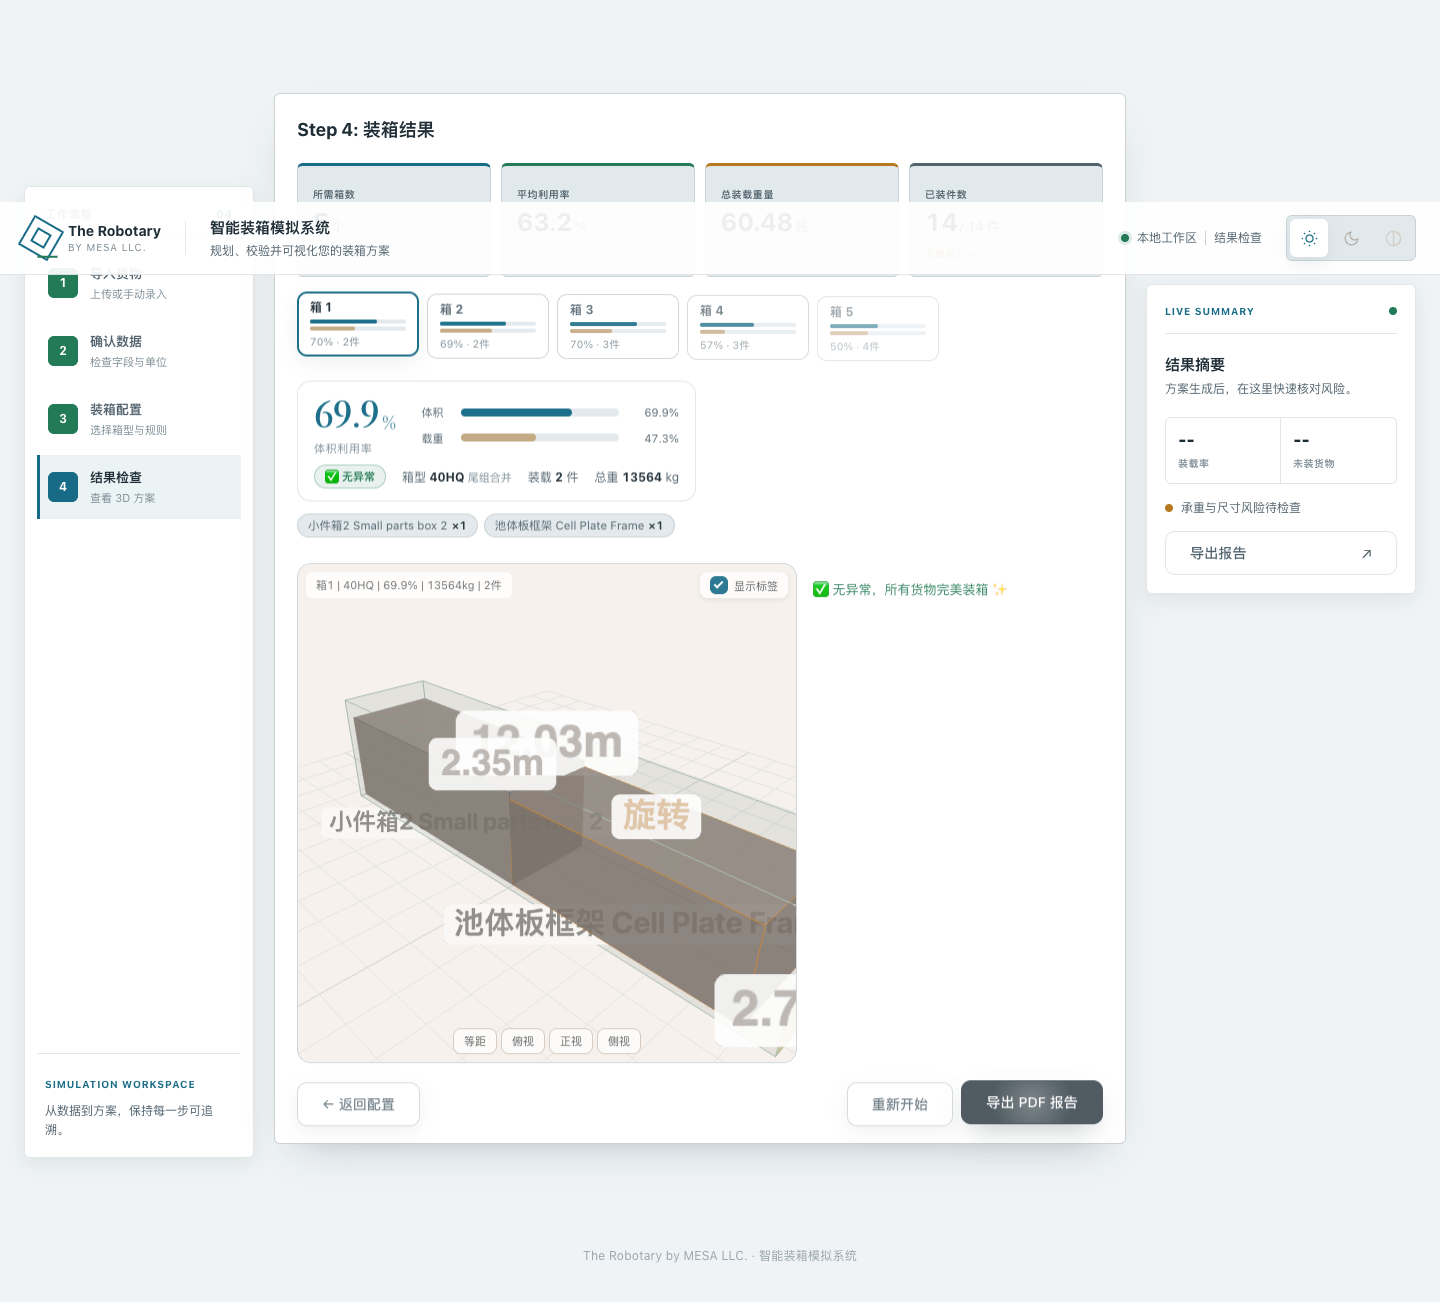
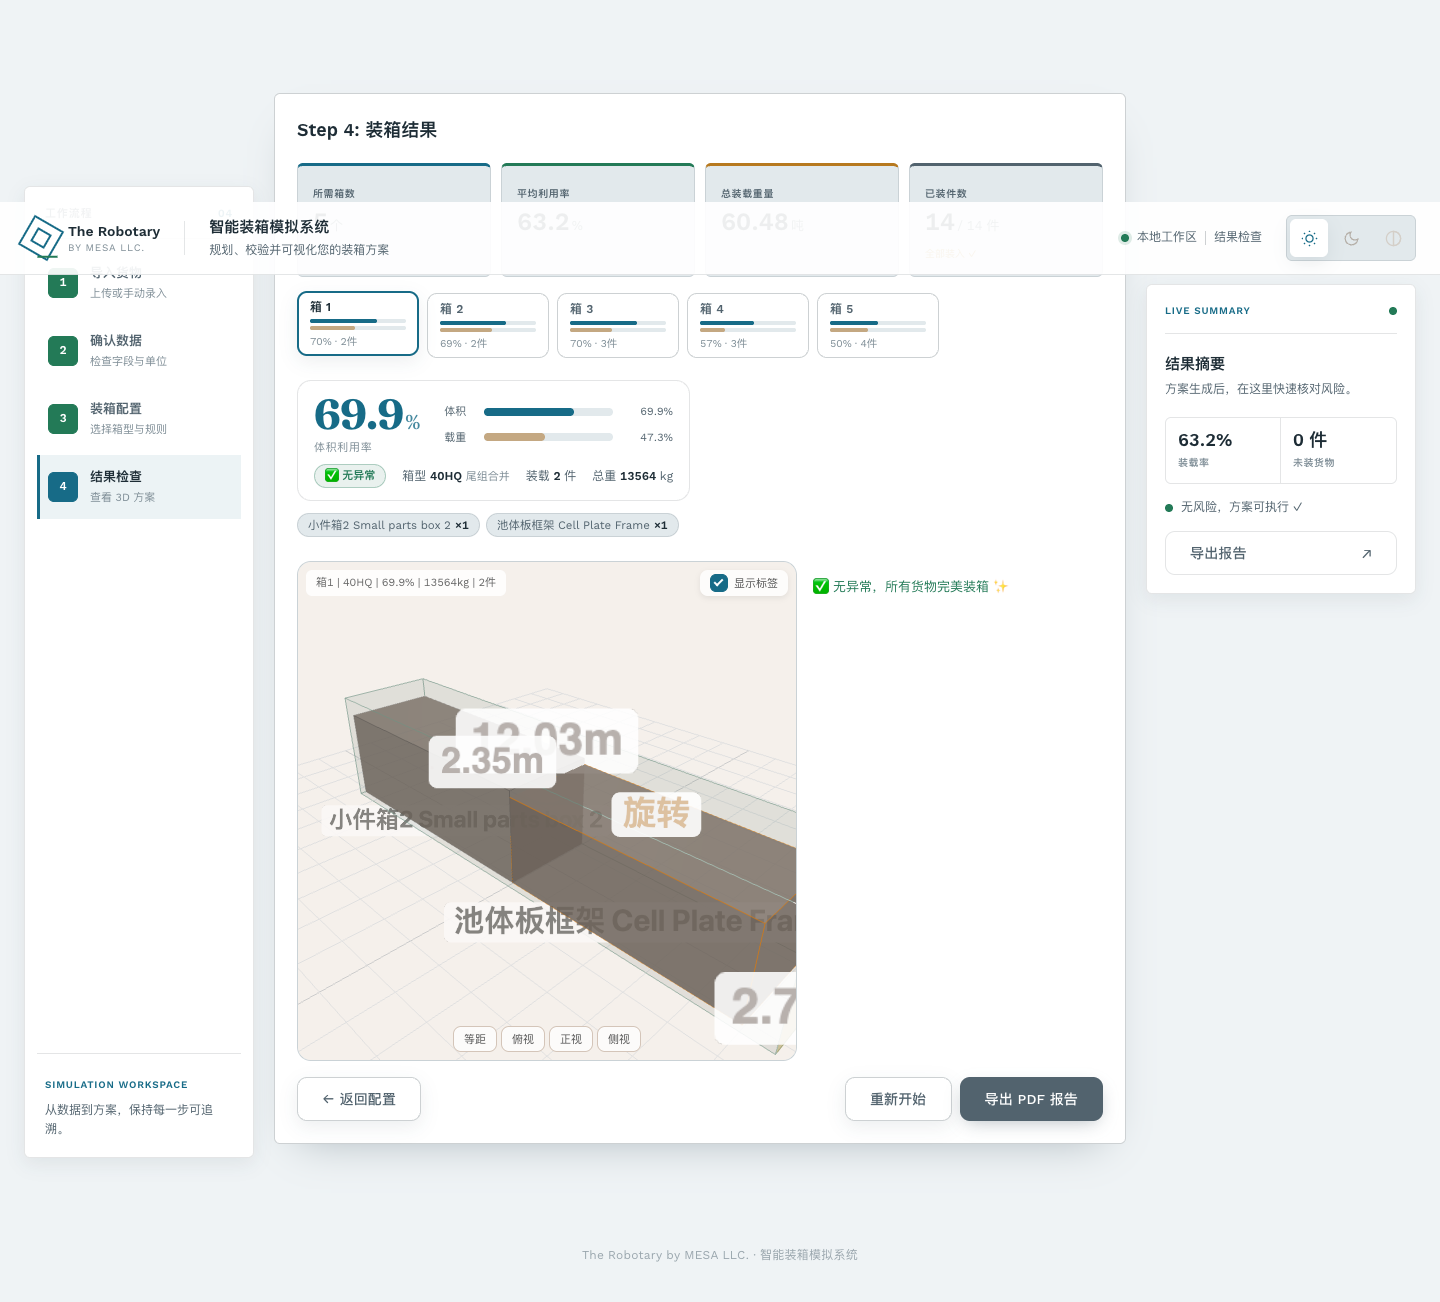
fix(C1.1): LIVE SUMMARY 面板联动 + 验收截图复拍
- app.js renderResultSummary 末尾同步 #context-utilization/#context-unloaded + 风险线三态
  （此前两元素全项目无人赋值，永远显示 '--'，属半成品面板）
- styles.css 新增 .risk-line__dot--ok
- test-regressions-c1 加 C1-CTX 静态契约（12 项断言）
- E2E 等待动画稳定后复拍 A3/C3/D3 + A3-top 顶部视口图；排查确认 KPI 重影与全页截图
  头部重叠均为截图伪影（非界面缺陷）
- 回归 18/18 保持全绿

diff --git a/app.js b/app.js
@@ -1995,6 +1995,27 @@
         `);
       }
     }
+
+    // C1.1（2026-10-13）：LIVE SUMMARY 面板联动——结果摘要同步到右侧上下文栏
+    // （此前 #context-utilization / #context-unloaded 为永不过期的 "--" 占位，属半成品面板）
+    const ctxUtil = $('context-utilization');
+    if (ctxUtil) ctxUtil.textContent = `${(result.avgUtilization * 100).toFixed(1)}%`;
+    const ctxUnloaded = $('context-unloaded');
+    if (ctxUnloaded) ctxUnloaded.textContent = `${result.unplacedCount || 0} 件`;
+    const riskLine = document.querySelector('.context-panel[data-context-step="4"] .risk-line');
+    if (riskLine) {
+      const dot = riskLine.querySelector('.risk-line__dot');
+      const txt = riskLine.querySelector('span:last-child');
+      const errCount = (result.checks || []).reduce((s, ch) => s + (ch.errors ? ch.errors.length : 0), 0);
+      const warnCount = (result.checks || []).reduce((s, ch) => s + (ch.warnings ? ch.warnings.length : 0), 0);
+      const hasIssue = errCount > 0 || (result.unplacedCount || 0) > 0;
+      if (dot && txt) {
+        dot.classList.toggle('risk-line__dot--ok', !hasIssue && warnCount === 0);
+        txt.textContent = hasIssue
+          ? `发现 ${errCount + ((result.unplacedCount || 0) > 0 ? 1 : 0)} 项风险，请核对下方明细`
+          : (warnCount > 0 ? `基本无风险（${warnCount} 条提示）` : '无风险，方案可执行 ✓');
+      }
+    }
   }
 
   function renderContainerTabs(result) {

diff --git a/scripts/test-regressions-c1.js b/scripts/test-regressions-c1.js
@@ -177,4 +177,15 @@ test('C1-MSG 无重量列文案说明载重校验失效', () => {
     `警告应说明载重校验失效，实际 ${JSON.stringify(res.warnings)}`);
 });
 
+// ═══════════════════════════════════════════
+// 8) LIVE SUMMARY 面板联动（静态契约，2026-10-13 C1.1）
+// ═══════════════════════════════════════════
+test('C1-CTX LIVE SUMMARY 面板联动（静态契约）', () => {
+  const fs = require('fs');
+  const src = fs.readFileSync(path.join(__dirname, '..', 'app.js'), 'utf8');
+  assert(/context-utilization/.test(src), '结果摘要应写入 #context-utilization');
+  assert(/context-unloaded/.test(src), '结果摘要应写入 #context-unloaded');
+  assert(/risk-line__dot--ok/.test(src), '风险线应支持 ok 态');
+});
+
 console.log(`\n═══ test-regressions-c1 完成：${passed} 通过 / ${failed} 失败（共 ${assertCount} 条断言）═══`);

diff --git a/styles.css b/styles.css
@@ -557,6 +557,7 @@ select option {
 .context-callout { padding: 13px; margin-bottom: 12px; background: color-mix(in srgb, var(--accent) 8%, var(--card)); border-left: 3px solid var(--accent); }
 .risk-line { display: flex; align-items: center; gap: 8px; margin-top: 14px; color: var(--text-secondary); font-size: 12px; }
 .risk-line__dot { width: 8px; height: 8px; border-radius: 50%; background: var(--warning); flex: 0 0 auto; }
+.risk-line__dot--ok { background: var(--success); }
 .context-export { margin-top: 14px; width: 100%; min-height: 40px; justify-content: space-between; border-color: var(--border); }
 
 .result-summary {

diff --git a/docs/audit-2026-10-13/probes/cls-e2e-smoke3.py b/docs/audit-2026-10-13/probes/cls-e2e-smoke3.py
@@ -32,7 +32,7 @@ def wait_result(pg, timeout=60000):
         const el = document.querySelector('#result-summary');
         return el && (el.innerText || '').includes('所需箱数');
     }""", timeout=timeout)
-    pg.wait_for_timeout(500)
+    pg.wait_for_timeout(2500)
 
 with sync_playwright() as p:
     b = p.chromium.launch(headless=True, executable_path=EXE)

diff --git a/docs/audit-2026-10-13/C1-FIX-REPORT-2026-10-13.md b/docs/audit-2026-10-13/C1-FIX-REPORT-2026-10-13.md
@@ -34,6 +34,7 @@
 | 5 | P1-1 30t 单件推荐"20GP×2"（物理不可行） | `container-db.js`：单件超普柜载重 → 走 40FR 推荐链；混推组同步（超重货并入 FR 组）；文案更新 | C1-REC；E2E C3（推荐 40FR → 实算 1 箱装入） |
 | 6 | UI 死锁：混合勾选被重置 / 按钮 disabled / 失败无去处 | `app.js`：`ensureCalculateButton` 三处补齐 + 混合面板就地显示 | E2E A3（勾选保持 useMixed=true、按钮可用、5 箱全装） |
 | 7 | 文案：无重量列谎称"体积估算" | 改为「所有货物按 0kg 处理，**载重校验不会生效**」 | C1-MSG |
+| 8 | LIVE SUMMARY 面板半成品：`#context-utilization`/`#context-unloaded` 全项目无人赋值，永远显示 `--` | `app.js`：`renderResultSummary` 末尾联动（装载率/未装数/风险线三态）；`styles.css`：新增 `.risk-line__dot--ok` | C1-CTX（静态契约）+ E2E A3-top（面板显示 63.2% / 0 件 / 绿点"无风险，方案可执行 ✓"） |
 
 **未动（第二批待爹地拍板）**：FR payload 口径（27.5t/39.6t vs 官方 31.26t/44.05t）、6 向翻转默认（2.6m 高货横放）、皮重+VGM 输出、性能拐点（万件级）。
 
@@ -53,7 +54,12 @@ node scripts/test-all.js  →  ✅ 全部 18 个测试套件通过（EXIT=0）
 | C3 30t 重货 | 推荐 20GP×2 → 算 0 箱 | 推荐 40FR → **1 箱装入** |
 | D3 13m 超长货 | 分类 FR 但装不了 | **全链路装成**（1 箱） |
 
-截图：`docs/audit-2026-10-13/cls-e2e-A3-fixed.png` / `cls-e2e-C3-fixed.png` / `cls-e2e-D3-fixed.png`（已归档同目录）。
+截图：`docs/audit-2026-10-13/cls-e2e-A3-fixed.png` / `cls-e2e-C3-fixed.png` / `cls-e2e-D3-fixed.png`（已归档同目录）；
+顶部整页视口图 `cls-e2e-A3-top.png`（KPI 四卡全清晰 + LIVE SUMMARY 联动可见）。
+
+**两个"疑似问题"的排查附注（均非缺陷，2026-10-13 晚）**：
+1. KPI 数字"重影"——是 `fadeInUp` 进场动画进行中的截帧；等待动画结束后清晰可读（复拍确认）。
+2. 全页截图中 sticky 头部与 KPI 行"重叠"——全页截图对 sticky/fixed 元素的合成伪影；DOM 实测（`elementsFromPoint`/`getBoundingClientRect`）无重叠，滚回顶部后正常显示。
 
 ### 可重跑命令
 ```bash
